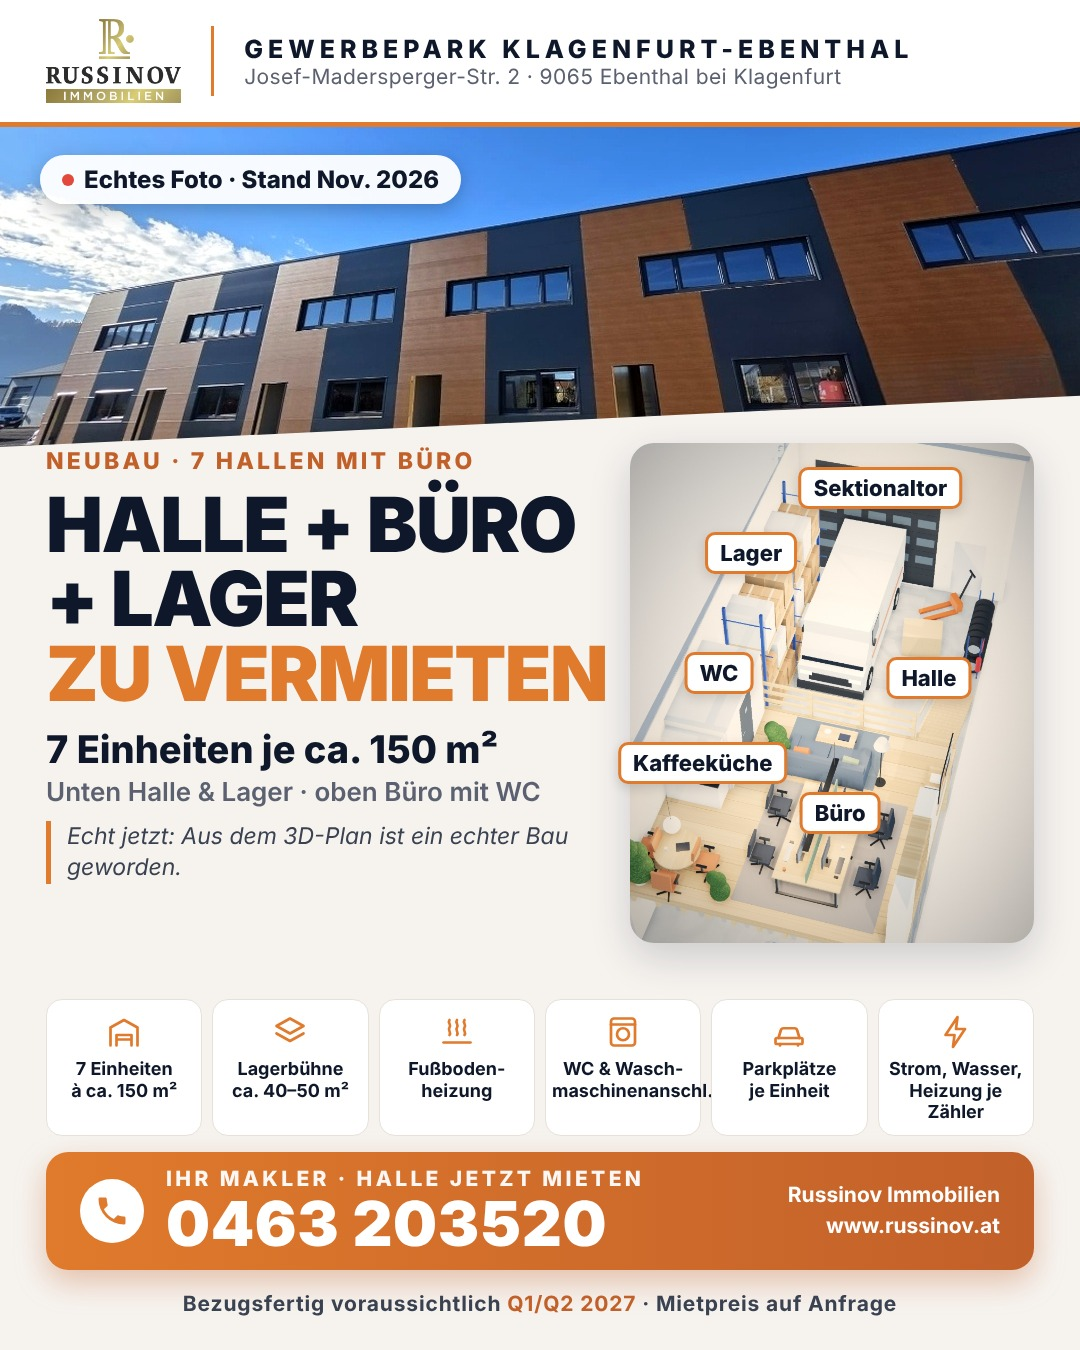
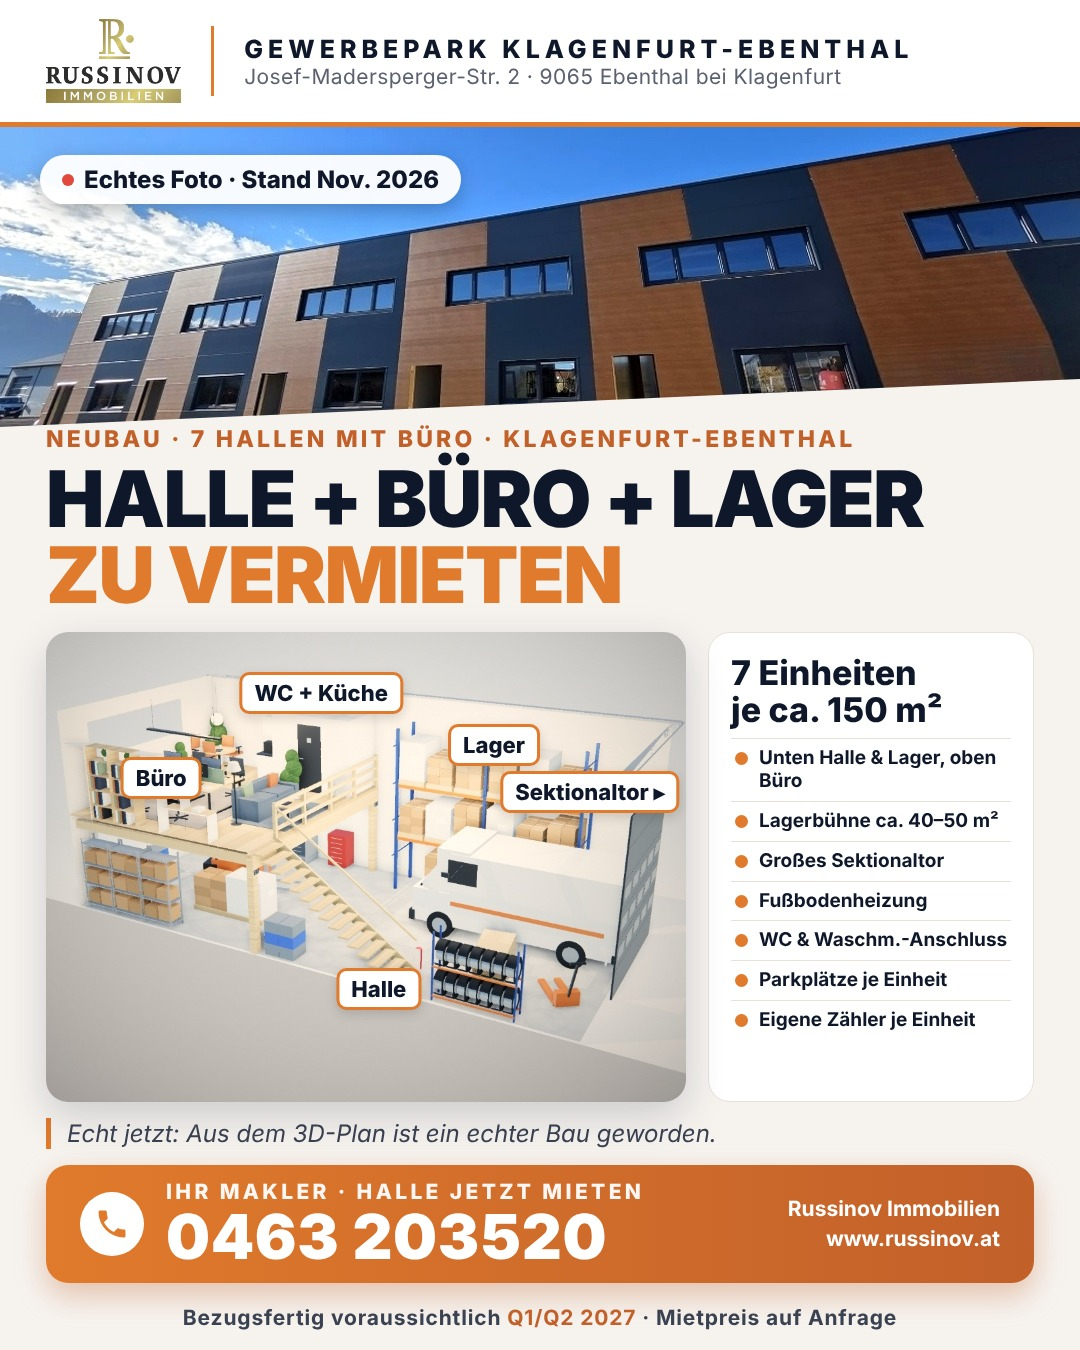
Werbebild mit seitlicher Schnittansicht
Claude-Session: https://claude.ai/code/session_01XYoivL69tqg2u7xhxccvYQ

diff --git a/schmacher-werbevideo/3d/daily/poster.html b/schmacher-werbevideo/3d/daily/poster.html
@@ -6,7 +6,7 @@ html,body{margin:0;width:1080px;height:1350px;overflow:hidden;font-family:Inter,
 .head{height:122px;background:#fff;display:flex;align-items:center;padding:0 46px;border-bottom:5px solid var(--or)}
 .head img{height:84px}.head .sep{width:3px;height:70px;background:var(--or);margin:0 30px}
 .head .loc b{display:block;font-weight:800;letter-spacing:.2em;font-size:25px}.head .loc span{font-size:21px;color:#5b6170;letter-spacing:.02em}
-.hero{position:relative;height:320px;background-size:cover;background-position:center;clip-path:polygon(0 0,100% 0,100% 84%,0 100%)}
+.hero{position:relative;height:300px;background-size:cover;background-position:center;clip-path:polygon(0 0,100% 0,100% 84%,0 100%)}
 .tag{position:absolute;left:40px;top:28px;background:rgba(255,255,255,.95);font-weight:800;font-size:24px;padding:10px 22px;border-radius:999px;box-shadow:0 6px 20px rgba(0,0,0,.25);display:flex;gap:10px;align-items:center}
 .tag i{width:12px;height:12px;border-radius:50%;background:#e2483b}
 .main{display:flex;gap:24px;padding:0 46px;margin-top:-4px;height:540px}
@@ -30,26 +30,31 @@ html,body{margin:0;width:1080px;height:1350px;overflow:hidden;font-family:Inter,
 .cta .w{margin-left:auto;text-align:right;font-weight:700;font-size:21px;line-height:1.45;white-space:nowrap}
 .foot{height:56px;margin-top:6px;display:flex;align-items:center;justify-content:center;font-size:21px;font-weight:700;color:#3a4252;letter-spacing:.04em}
 .foot span{color:var(--or2)}
+
+.hl{padding:0 46px;margin-top:-2px}
+.hl .big{font-size:78px;white-space:nowrap;margin-top:8px}
+.row{display:flex;gap:22px;padding:0 46px;margin-top:18px;height:470px}
+.cut{position:relative;width:640px;height:470px;flex:none}
+.cut img{position:absolute;inset:0;width:100%;height:100%;object-fit:cover;border-radius:22px;box-shadow:0 14px 40px rgba(15,24,42,.18)}
+.facts{flex:1;background:#fff;border-radius:22px;border:1px solid var(--line);padding:22px 22px 14px}
+.facts .units{margin:0 0 10px;font-size:34px;line-height:1.08}
+.facts ul{list-style:none;margin:0;padding:0}
+.facts li{font-size:19px;font-weight:650;padding:8px 0 8px 28px;position:relative;border-top:1px solid var(--line);line-height:1.2}
+.facts li:before{content:"";position:absolute;left:4px;top:13px;width:13px;height:13px;border-radius:50%;background:var(--or)}
+.line{margin:16px 46px 0;font-size:24px;font-style:italic;color:#3a4252;border-left:5px solid var(--or);padding-left:16px;line-height:1.3}
 </style></head><body>
 <div class="head"><img id="logo"><div class="sep"></div><div class="loc"><b>GEWERBEPARK KLAGENFURT-EBENTHAL</b><span>Josef-Madersperger-Str. 2 · 9065 Ebenthal bei Klagenfurt</span></div></div>
 <div class="hero" id="hero"><div class="tag" id="tag"><i></i><span></span></div></div>
-<div class="main">
- <div class="l"><div class="kick">Neubau · 7 Hallen mit Büro</div>
-  <div class="big">Halle + Büro<br>+ Lager<br><span class="o">zu vermieten</span></div>
-  <div class="units">7 Einheiten je ca. 150 m²<small>Unten Halle &amp; Lager · oben Büro mit WC</small></div>
-  <div class="line" id="line"></div></div>
- <div class="r"><img src="../out/cut_poster.jpg">
-  <div class="lb" style="left:62%;top:9%">Sektionaltor</div><div class="lb" style="left:30%;top:22%">Lager</div><div class="lb" style="left:74%;top:47%">Halle</div>
-  <div class="lb" style="left:22%;top:46%">WC</div><div class="lb" style="left:18%;top:64%">Kaffeeküche</div><div class="lb" style="left:52%;top:74%">Büro</div></div>
+<div class="hl"><div class="kick">Neubau · 7 Hallen mit Büro · Klagenfurt-Ebenthal</div>
+ <div class="big">Halle + Büro + Lager<br><span class="o">zu vermieten</span></div></div>
+<div class="row">
+ <div class="cut"><img src="../out/cut_side_poster.jpg">
+  <div class="lb" style="left:18%;top:31%">Büro</div><div class="lb" style="left:43%;top:13%">WC + Küche</div>
+  <div class="lb" style="left:70%;top:24%">Lager</div><div class="lb" style="left:52%;top:76%">Halle</div><div class="lb" style="left:85%;top:34%">Sektionaltor ▸</div></div>
+ <div class="facts"><div class="units">7 Einheiten<br>je ca. 150 m²</div>
+  <ul><li>Unten Halle &amp; Lager, oben Büro</li><li>Lagerbühne ca. 40–50&nbsp;m²</li><li>Großes Sektionaltor</li><li>Fußbodenheizung</li><li>WC &amp; Waschm.-Anschluss</li><li>Parkplätze je Einheit</li><li>Eigene Zähler je Einheit</li></ul></div>
 </div>
-<div class="icons">
- <div class="ic"><svg viewBox="0 0 24 24"><path d="M3 21V9l9-5 9 5v12"/><path d="M7 21v-7h10v7M7 17h10"/></svg>7 Einheiten<br>à ca. 150 m²</div>
- <div class="ic"><svg viewBox="0 0 24 24"><path d="M12 3l9 5-9 5-9-5 9-5z"/><path d="M3 13l9 5 9-5"/></svg>Lagerbühne<br>ca. 40–50 m²</div>
- <div class="ic"><svg viewBox="0 0 24 24"><path d="M7 4c-1.5 2 1.5 3 0 5s1.5 3 0 5M12 4c-1.5 2 1.5 3 0 5s1.5 3 0 5M17 4c-1.5 2 1.5 3 0 5s1.5 3 0 5"/><path d="M3 19h18"/></svg>Fußboden-<br>heizung</div>
- <div class="ic"><svg viewBox="0 0 24 24"><rect x="4" y="3" width="16" height="18" rx="2"/><path d="M4 7h16"/><path d="M8 13.5a4 4 0 1 0 8 0a4 4 0 1 0-8 0"/></svg>WC &amp; Wasch-<br>maschinenanschl.</div>
- <div class="ic"><svg viewBox="0 0 24 24"><path d="M5 16l1.5-5a2 2 0 0 1 2-1.5h7a2 2 0 0 1 2 1.5L19 16"/><rect x="3" y="16" width="18" height="4" rx="1"/><path d="M6 20v1M18 20v1"/></svg>Parkplätze<br>je Einheit</div>
- <div class="ic"><svg viewBox="0 0 24 24"><path d="M13 2L5 14h6l-1 8 8-12h-6l1-8z"/></svg>Strom, Wasser,<br>Heizung je Zähler</div>
-</div>
+<div class="line" id="line"></div>
 <div class="cta"><div class="ph"><svg viewBox="0 0 24 24"><path d="M6.6 10.8a15.1 15.1 0 0 0 6.6 6.6l2.2-2.2c.3-.3.7-.4 1-.2 1.1.4 2.3.6 3.6.6.6 0 1 .4 1 1V20c0 .6-.4 1-1 1A17 17 0 0 1 3 4c0-.6.4-1 1-1h3.5c.6 0 1 .4 1 1 0 1.3.2 2.5.6 3.6.1.3 0 .7-.2 1l-2.3 2.2z"/></svg></div>
  <div class="t"><small id="ctak"></small><b id="phone"></b></div><div class="w" id="web"></div></div>
 <div class="foot">Bezugsfertig voraussichtlich&nbsp;<span>Q1/Q2 2027</span>&nbsp;· Mietpreis auf Anfrage</div>

diff --git a/schmacher-werbevideo/3d/scene.js b/schmacher-werbevideo/3d/scene.js
@@ -1034,6 +1034,7 @@ if (CUT) {
   scene.background = new THREE.Color(0xf1f2f4);
   const gnd = new THREE.Mesh(new THREE.PlaneGeometry(400, 400), new THREE.MeshStandardMaterial({ color: 0xeceef1, roughness: 1 })); gnd.rotation.x = -Math.PI / 2; gnd.position.y = -0.02; gnd.receiveShadow = true; scene.add(gnd);
   renderer.clippingPlanes = [new THREE.Plane(new THREE.Vector3(0, -1, 0), 5.7)];
+  if (params.get('side') === '1') renderer.clippingPlanes.push(new THREE.Plane(new THREE.Vector3(1, 0, 0), -(heroX0 + 0.16))); // Seitenansicht: Wand auf der Stiegenseite aufgeschnitten
   // Mauerkronen der beiden sichtbaren Wände
   const capM = new THREE.MeshStandardMaterial({ color: 0x9aa0a8, roughness: 0.8 });
   const cap = (w, d, x, z) => { const m = new THREE.Mesh(new THREE.BoxGeometry(w, 0.06, d), capM); m.position.set(x, 5.67, z); scene.add(m); };

diff --git a/schmacher-werbevideo/DAILY.md b/schmacher-werbevideo/DAILY.md
@@ -20,7 +20,7 @@ Jeden Tag **ein neues, anderes Video plus ein Werbebild**, jeweils in **zwei Var
 - Wer das Bild auf Facebook sieht, muss in 1 Sekunde verstehen: **Halle mit Büro zu vermieten.** Das gehört groß und eindeutig aufs Bild, z. B. „ZU VERMIETEN · Halle + Lager + Büro“.
 - Jedes Bild ist ein **fix-fertiger, vollständiger Post**: großer Titel „zu vermieten“, Ort „Klagenfurt-Ebenthal“, die wichtigsten Fakten (ca. 150 m², unten Lager/oben Büro, großes Sektionaltor, Fußbodenheizung), Telefonnummer groß, Logo.
 - Kreative Ideen sind erlaubt, aber die Botschaft „zu vermieten“ darf nie hinter dem Gag verschwinden. Auch der Posttext beginnt mit der klaren Aussage („Halle mit Büro zu vermieten …“).
-- **Feste Vorlage:** `3d/daily/poster.html` (Stil nach `referenz-fotos/werbebild-vorlagen/`): Kopf mit Logo + „Gewerbepark Klagenfurt-Ebenthal“ + Adresse, großes Tagesfoto/Render oben, „HALLE + BÜRO + LAGER ZU VERMIETEN“, „7 Einheiten je ca. 150 m²“, beschriftetes Schnittbild (`3d/out/cut_poster.jpg`, neu erzeugen mit `node cut.cjs 760 980 19.5,25,-26 24.6,2.3,-7.3 27 out/cut_poster.jpg`), 6 Fakten-Kacheln, orange Anruf-Leiste, Fußzeile Bezug/Mietpreis.
+- **Feste Vorlage:** `3d/daily/poster.html` (Stil nach `referenz-fotos/werbebild-vorlagen/`): Kopf mit Logo + „Gewerbepark Klagenfurt-Ebenthal“ + Adresse, großes Tagesfoto/Render oben, „HALLE + BÜRO + LAGER ZU VERMIETEN“, „7 Einheiten je ca. 150 m²“, beschriftetes **seitliches** Schnittbild (Wunsch Bauherr; `3d/out/cut_side_poster.jpg`, neu erzeugen mit `SIDE=1 node cut.cjs 1000 800 4.5,10.5,3.5 24.4,2.0,-7.6 34 out/cut_side.jpg` und zuschneiden 40,80,990,778), Faktenliste daneben, orange Anruf-Leiste, Fußzeile Bezug/Mietpreis.
   Erzeugen: `node 3d/daily/poster.cjs <hero relativ zu daily/> "<Aufkleber>" "<Tageszeile>" <Ausgabe-Präfix>` → `_Schmacher.jpg`/`_Russinov.jpg`. **Täglich wechseln:** Hero-Bild, Aufkleber und Tageszeile (zur Videoidee passend); Rest bleibt gleich, damit man sofort erkennt: 7 Hallen zu vermieten + anrufen.
 
 ## Ort immer so nennen
